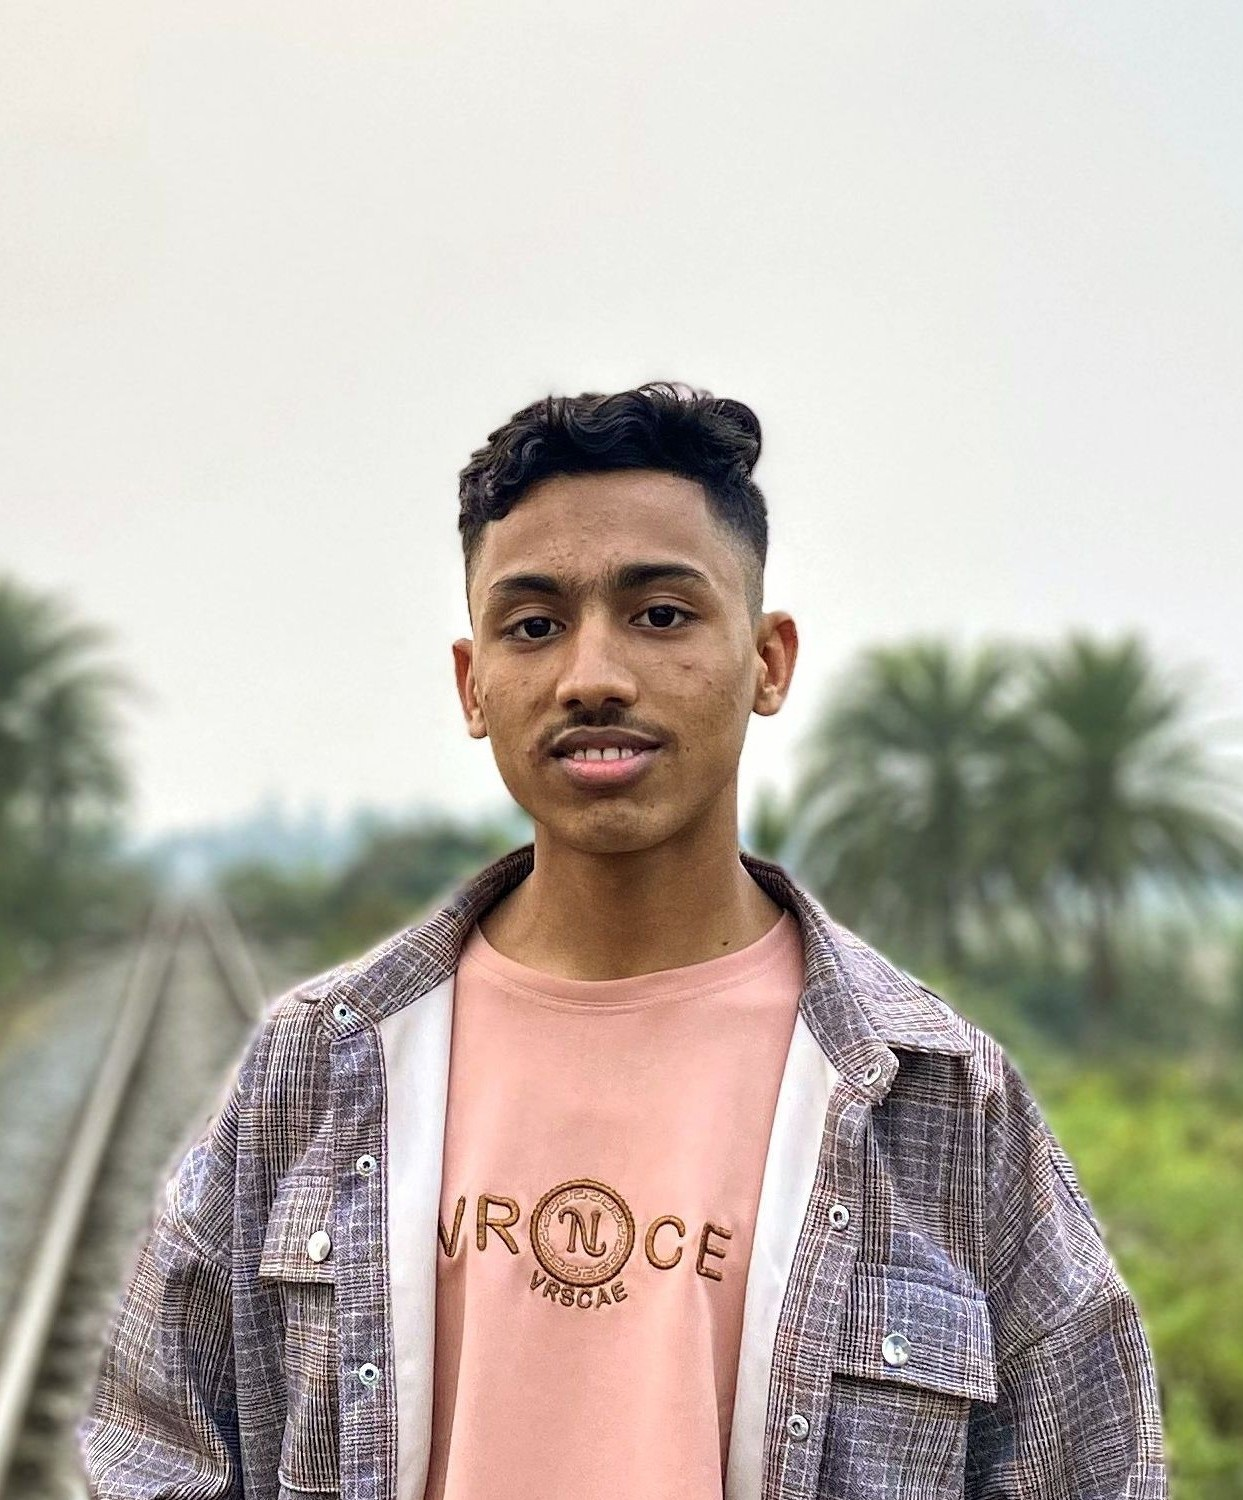
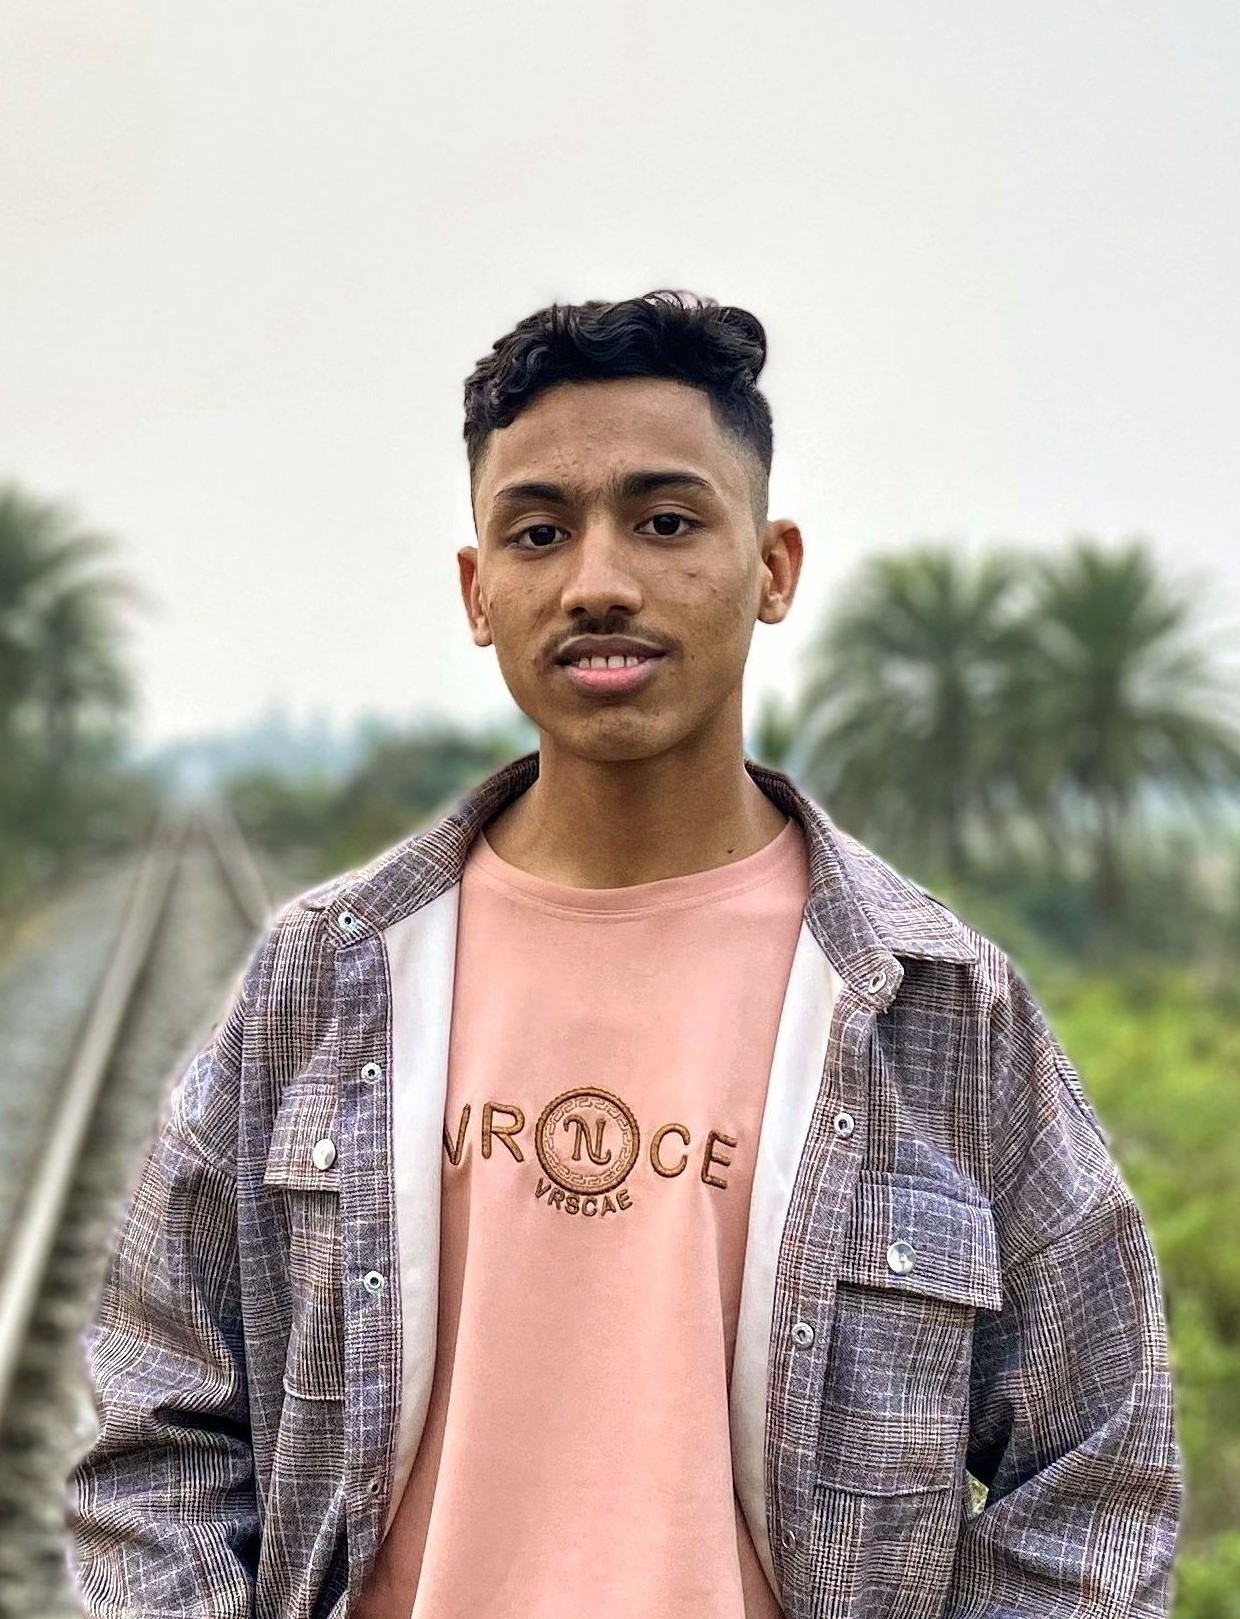
feat(about): add a new about me section

diff --git a/index.html b/index.html
@@ -21,7 +21,7 @@
 <body>
     <!---------- header section ---------->
     <header id="header">
-        <nav class="navbar navbar-expand-lg bg-dark border-bottom border-body" data-bs-theme="dark">
+        <nav class="navbar navbar-expand-lg bg-dark border-bottom border-body fixed-top" data-bs-theme="dark">
             <div class="container">
                 <a class="navbar-brand" href="#"><span>N</span>ayeem</a>
                 <button class="navbar-toggler" type="button" data-bs-toggle="collapse" data-bs-target="#navbarNav" aria-controls="navbarNav" aria-expanded="false" aria-label="Toggle navigation">
@@ -33,7 +33,7 @@
                           <a class="nav-link active rounded-pill" aria-current="page" href="#">Home</a>
                       </li>
                       <li class="nav-item">
-                          <a class="nav-link rounded-pill" href="#">About</a>
+                          <a class="nav-link rounded-pill" href="#about">About</a>
                       </li>
                       <li class="nav-item">
                           <a class="nav-link rounded-pill" href="#">Services</a>
@@ -65,6 +65,59 @@
             </div>
         </div>
     </header>
+
+    <!---------- about me section ---------->
+    <div id="about" class="container">
+        <div class="row d-md-flex justify-content-between align-items-center">
+            <div class="col-12 col-md-5">
+                <img src="images/user.jpg" alt="user photo">
+            </div>
+            <div class="col-12 col-md-7">
+                <h1>About Me</h1>
+                <p>Lorem, ipsum dolor sit amet consectetur adipisicing elit. Reiciendis earum facilis exercitationem, excepturi, perferendis blanditiis dolorem nemo aut aspernatur commodi, officiis sint quo nisi accusamus non illo laborum! Omnis, aut! Lorem ipsum dolor sit amet consectetur adipisicing elit. Nostrum, reprehenderit.</p>
+
+                <div class="tab-titles">
+                    <h5><a href="#" class="active-title">Skills</a></h5>
+                    <h5><a href="#">Experience</a></h5>
+                    <h5><a href="#">Education</a></h5>
+                </div>
+
+                <div class="row">
+                    <div class="col-12 col-md-6">
+                        <ul>
+                            <li><span>UI/UX</span><br>Designing Web/App interfaces</li>
+                            <li><span>Web Development</span><br>Web App Development</li>
+                            <li><span>App Development</span><br>Building Android/iOS apps</li>
+                        </ul>
+                    </div>
+
+                    <div class="col-12 col-md-6">
+                        <ul>
+                            <li><span>UI/UX</span><br>Designing Web/App interfaces</li>
+                            <li><span>Web Development</span><br>Web App Development</li>
+                            <li><span>App Development</span><br>Building Android/iOS apps</li>
+                        </ul>
+                    </div>
+
+                    <div class="col-12 col-md-6">
+                        <ul>
+                            <li><span>UI/UX</span><br>Designing Web/App interfaces</li>
+                            <li><span>Web Development</span><br>Web App Development</li>
+                            <li><span>App Development</span><br>Building Android/iOS apps</li>
+                        </ul>
+                    </div>
+
+                    <div class="col-12 col-md-6">
+                        <ul>
+                            <li><span>UI/UX</span><br>Designing Web/App interfaces</li>
+                            <li><span>Web Development</span><br>Web App Development</li>
+                            <li><span>App Development</span><br>Building Android/iOS apps</li>
+                        </ul>
+                    </div>
+                </div>
+            </div>
+        </div>
+    </div>
     
 
 

diff --git a/css/style.css b/css/style.css
@@ -9,6 +9,18 @@ body{
     color: #fff;
 }
 
+h1{
+    font-size: 40px;
+    font-weight: 600;
+    margin-bottom: 40px;
+}
+
+p{
+    font-size: 14px;
+    color: #A9A9A9;
+    line-height: 25px;
+}
+
 /* header section */
 .navbar-brand{
     font-family: "Lobster", serif;
@@ -36,7 +48,7 @@ body{
 
 /* header item */
 .header-item{
-    margin-top: 10px;
+    margin-top: 80px;
 }
 .header-item p{
     font-size: 18px;
@@ -54,4 +66,42 @@ body{
 }
 .header-item img{
     width: 500px;
+}
+
+/* about me section */
+#about{
+    padding-top: 100px;
+}
+#about img{
+    width: 350px;
+    border-radius: 15px;
+}
+.tab-titles{
+    display: flex;
+    margin: 20px 0;
+}
+.tab-titles a{
+    text-decoration: none;
+    margin-right: 50px;
+    color: #fff;
+    font-weight: 500;
+    transition: all .3s;
+}
+.tab-titles .active-title{
+    color: #DC3545;
+}
+.tab-titles a:hover{
+    color: #DC3545;
+}
+#about ul{
+    margin-top: 20px;
+    padding-left: 0 !important;
+}
+#about ul li{
+    list-style: none;
+    margin-top: 15px;
+}
+#about ul li span{
+    color: #ff6b6b;
+    font-size: 14px;
 }
